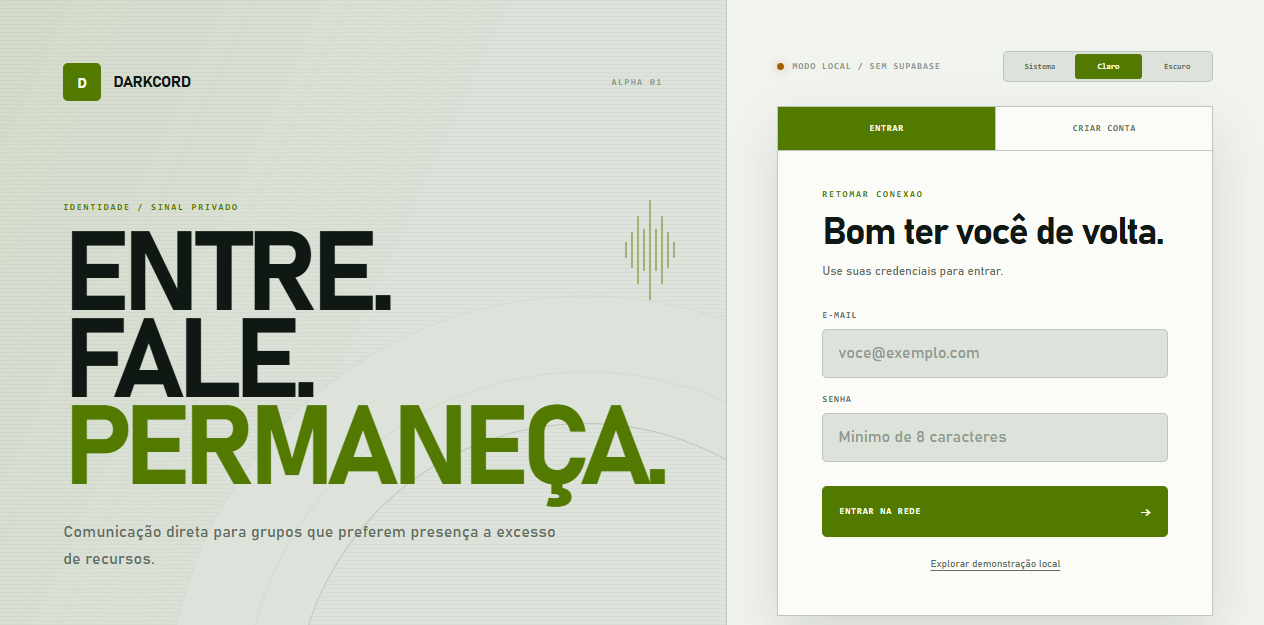
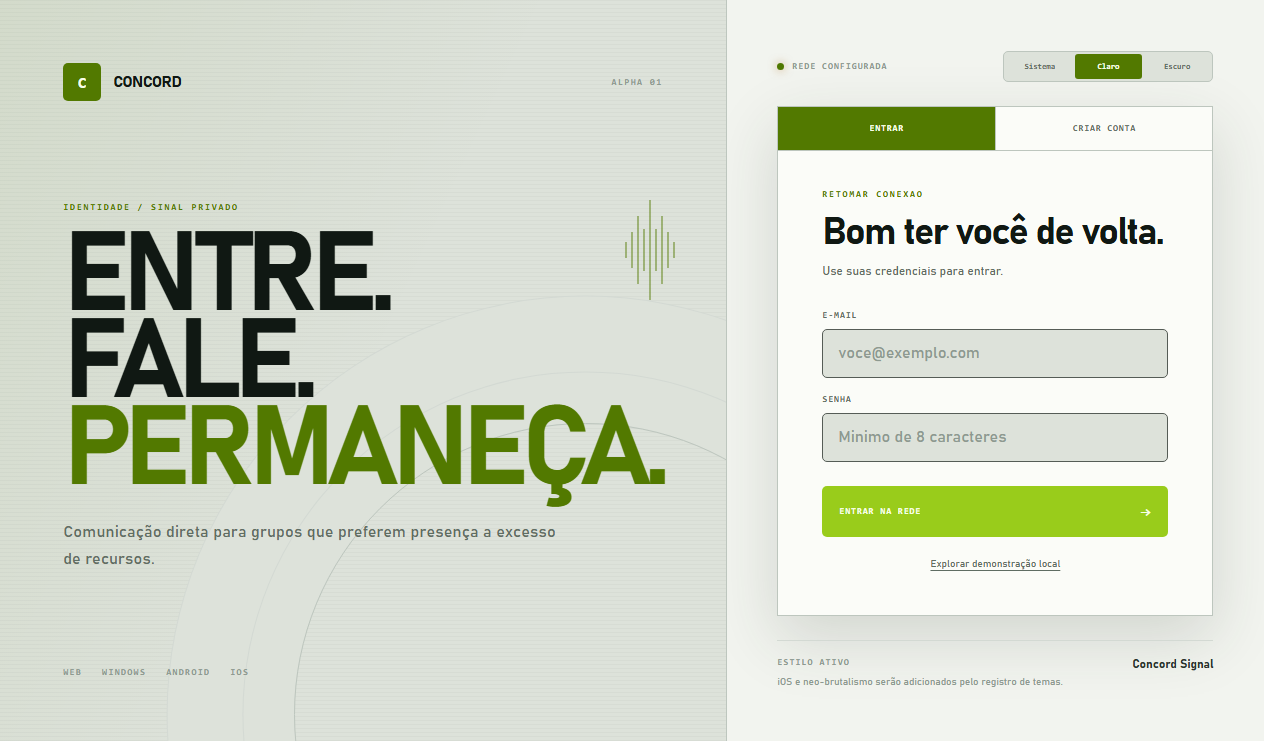
refactor: renomeia projeto para Concord

diff --git a/tests/e2e/identity-and-themes.spec.ts b/tests/e2e/identity-and-themes.spec.ts
@@ -5,6 +5,7 @@ test.describe('identidade e temas', () => {
     await page.emulateMedia({ colorScheme: 'light' })
     await page.goto('/')
 
+    await expect(page).toHaveTitle('Concord // Alpha 01')
     await expect(page.locator('html')).toHaveAttribute('data-color-mode', 'light')
     await expect(page.getByRole('button', { name: 'Sistema' })).toHaveAttribute('aria-pressed', 'true')
 
@@ -21,20 +22,18 @@ test.describe('identidade e temas', () => {
     await expect(page.locator('html')).toHaveAttribute('data-color-mode', 'light')
     await expect(page.getByRole('button', { name: 'Claro' })).toHaveAttribute('aria-pressed', 'true')
 
-    await expect.poll(() => page.evaluate(() => localStorage.getItem('darkcord.theme.v1')))
+    await expect.poll(() => page.evaluate(() => localStorage.getItem('concord.theme.v1')))
       .toContain('"colorMode":"light"')
   })
 
-  test('exibe o cadastro inicial e informa quando o Supabase não está configurado', async ({ page }) => {
+  test('exibe os campos do cadastro inicial', async ({ page }) => {
     await page.goto('/')
     await page.getByRole('tab', { name: 'Criar conta' }).click()
 
-    await page.getByLabel('Nickname').fill('Pedro')
-    await page.getByLabel('E-mail').fill('pedro@example.com')
-    await page.getByLabel('Senha').fill('SenhaTeste123')
-    await page.getByRole('button', { name: 'CRIAR IDENTIDADE' }).click()
-
-    await expect(page.getByRole('status')).toContainText('Supabase ainda nao configurado')
+    await expect(page.getByLabel('Nickname')).toBeVisible()
+    await expect(page.getByLabel('E-mail')).toBeVisible()
+    await expect(page.getByLabel('Senha')).toBeVisible()
+    await expect(page.getByRole('button', { name: 'CRIAR IDENTIDADE' })).toBeEnabled()
   })
 
   test('abre a demonstração e envia uma mensagem local', async ({ page }) => {

diff --git a/apps/web/src/features/workspace/ChannelPanel.tsx b/apps/web/src/features/workspace/ChannelPanel.tsx
@@ -1,4 +1,4 @@
-import type { ChannelSummary } from '@darkcord/contracts'
+import type { ChannelSummary } from '@concord/contracts'
 import { ThemeControls } from '../../components/theme/ThemeControls'
 
 type ChannelPanelProps = {
@@ -12,7 +12,7 @@ export function ChannelPanel({ activeChannel, channels, onChannelChange, onExit 
   return (
     <aside className="channel-panel">
       <header className="workspace-heading">
-        <div><span className="eyebrow">REDE PRIVADA</span><strong>Darkcord</strong></div>
+        <div><span className="eyebrow">REDE PRIVADA</span><strong>Concord</strong></div>
         <button type="button" aria-label="Sair da demonstracao" onClick={onExit}>×</button>
       </header>
 
@@ -39,7 +39,7 @@ export function ChannelPanel({ activeChannel, channels, onChannelChange, onExit 
         </div>
         <div className="voice-member muted">
           <span className="avatar avatar-amber">DC</span>
-          <div><strong>Darkcord Bot</strong><small>monitorando</small></div><i aria-label="Silenciado">×</i>
+          <div><strong>Concord Bot</strong><small>monitorando</small></div><i aria-label="Silenciado">×</i>
         </div>
       </section>
 

diff --git a/apps/web/index.html b/apps/web/index.html
@@ -4,11 +4,11 @@
     <meta charset="UTF-8" />
     <meta name="viewport" content="width=device-width, initial-scale=1.0" />
     <meta name="theme-color" content="#0a0c0b" />
-    <meta name="description" content="Darkcord: texto, voz e tela compartilhada sem peso desnecessario." />
-    <title>Darkcord // Alpha 01</title>
+    <meta name="description" content="Concord: texto, voz e tela compartilhada sem peso desnecessario." />
+    <title>Concord // Alpha 01</title>
     <script>
       (() => {
-        const key = 'darkcord.theme.v1'
+        const key = 'concord.theme.v1'
         let colorMode = 'system'
         try {
           const stored = JSON.parse(localStorage.getItem(key) || '{}')
@@ -17,7 +17,7 @@
         const resolved = colorMode === 'system'
           ? (matchMedia('(prefers-color-scheme: dark)').matches ? 'dark' : 'light')
           : colorMode
-        document.documentElement.dataset.styleTheme = 'darkcord'
+        document.documentElement.dataset.styleTheme = 'concord'
         document.documentElement.dataset.colorMode = resolved
         document.documentElement.style.colorScheme = resolved
       })()

diff --git a/apps/web/src/features/auth/AuthScreen.tsx b/apps/web/src/features/auth/AuthScreen.tsx
@@ -40,7 +40,7 @@ export function AuthScreen({ onExplore }: AuthScreenProps) {
   return (
     <main className="auth-shell">
       <section className="auth-story" aria-labelledby="auth-title">
-        <div className="auth-brand"><span>D</span><strong>DARKCORD</strong><small>ALPHA 01</small></div>
+        <div className="auth-brand"><span>C</span><strong>CONCORD</strong><small>ALPHA 01</small></div>
         <div className="auth-story-copy">
           <span className="eyebrow">IDENTIDADE / SINAL PRIVADO</span>
           <h1 id="auth-title">Entre.<br />Fale.<br /><em>Permaneça.</em></h1>
@@ -152,7 +152,7 @@ export function AuthScreen({ onExplore }: AuthScreenProps) {
 
           <footer className="auth-theme-note">
             <span>ESTILO ATIVO</span>
-            <strong>Darkcord Signal</strong>
+            <strong>Concord Signal</strong>
             <small>iOS e neo-brutalismo serão adicionados pelo registro de temas.</small>
           </footer>
         </div>

diff --git a/apps/web/src/theme/themes/concord.css b/apps/web/src/theme/themes/concord.css
@@ -1,4 +1,4 @@
-:root[data-style-theme='darkcord'][data-color-mode='dark'] {
+:root[data-style-theme='concord'][data-color-mode='dark'] {
   --color-canvas: #070908;
   --color-surface: #0d100f;
   --color-surface-raised: #121614;
@@ -21,7 +21,7 @@
   --texture-opacity: .018;
 }
 
-:root[data-style-theme='darkcord'][data-color-mode='light'] {
+:root[data-style-theme='concord'][data-color-mode='light'] {
   --color-canvas: #e8ebe5;
   --color-surface: #f2f4ef;
   --color-surface-raised: #fbfcf8;
@@ -44,7 +44,7 @@
   --texture-opacity: .032;
 }
 
-:root[data-style-theme='darkcord'] {
+:root[data-style-theme='concord'] {
   --font-body: Bahnschrift, 'Aptos Narrow', 'Trebuchet MS', sans-serif;
   --font-display: Bahnschrift, Impact, sans-serif;
   --font-mono: Consolas, 'Courier New', monospace;

diff --git a/apps/web/src/features/workspace/ServerRail.tsx b/apps/web/src/features/workspace/ServerRail.tsx
@@ -1,7 +1,7 @@
 export function ServerRail() {
   return (
     <nav className="server-rail" aria-label="Servidores">
-      <button className="server-mark active" type="button" aria-label="Darkcord"><span>D</span></button>
+      <button className="server-mark active" type="button" aria-label="Concord"><span>C</span></button>
       <div className="rail-line" />
       <button className="server-mark secondary" type="button" aria-label="Equipe zero">00</button>
       <button className="server-mark add" type="button" aria-label="Adicionar servidor">+</button>

diff --git a/apps/web/src/theme/theme-registry.ts b/apps/web/src/theme/theme-registry.ts
@@ -1,11 +1,11 @@
 import type { StyleThemeDefinition, StyleThemeId } from './theme-types'
 
-export const defaultStyleTheme: StyleThemeId = 'darkcord'
+export const defaultStyleTheme: StyleThemeId = 'concord'
 
 export const styleThemes: readonly StyleThemeDefinition[] = [
   {
-    id: 'darkcord',
-    label: 'Darkcord Signal',
+    id: 'concord',
+    label: 'Concord Signal',
     description: 'Central de radio industrial com sinal verde e ambar.',
     available: true,
   },

diff --git a/apps/web/src/features/workspace/workspace-data.ts b/apps/web/src/features/workspace/workspace-data.ts
@@ -1,4 +1,4 @@
-import type { ChannelSummary } from '@darkcord/contracts'
+import type { ChannelSummary } from '@concord/contracts'
 
 export type LocalMessage = {
   id: number
@@ -17,7 +17,7 @@ export const channels: ChannelSummary[] = [
 export const initialMessages: LocalMessage[] = [
   {
     id: 1,
-    author: 'Darkcord Relay',
+    author: 'Concord Relay',
     time: 'agora',
     body: 'Fundacao sincronizada. O primeiro sinal da rede esta no ar.',
     system: true,

diff --git a/apps/web/src/features/auth/AuthProvider.tsx b/apps/web/src/features/auth/AuthProvider.tsx
@@ -66,7 +66,7 @@ export function AuthProvider({ children }: PropsWithChildren) {
         options: { data: { nickname } },
       })
       if (error) return { ok: false, message: translateAuthError(error.message) }
-      return { ok: true, message: 'Conta criada. Bem-vindo ao Darkcord.' }
+      return { ok: true, message: 'Conta criada. Bem-vindo ao Concord.' }
     },
     signOut: async (): Promise<AuthResult> => {
       if (!supabase) return notConfigured

diff --git a/apps/web/src/theme/theme-types.ts b/apps/web/src/theme/theme-types.ts
@@ -2,7 +2,7 @@ export const colorModes = ['system', 'light', 'dark'] as const
 
 export type ColorMode = (typeof colorModes)[number]
 export type ResolvedColorMode = Exclude<ColorMode, 'system'>
-export type StyleThemeId = 'darkcord'
+export type StyleThemeId = 'concord'
 
 export type StyleThemeDefinition = {
   id: StyleThemeId

diff --git a/apps/web/src/theme/ThemeProvider.tsx b/apps/web/src/theme/ThemeProvider.tsx
@@ -5,7 +5,7 @@ import { defaultStyleTheme } from './theme-registry'
 import { colorModes } from './theme-types'
 import type { ColorMode, ResolvedColorMode, StyleThemeId } from './theme-types'
 
-const STORAGE_KEY = 'darkcord.theme.v1'
+const STORAGE_KEY = 'concord.theme.v1'
 
 type StoredTheme = {
   styleTheme: StyleThemeId

diff --git a/playwright.config.ts b/playwright.config.ts
@@ -18,7 +18,7 @@ export default defineConfig({
     },
   ],
   webServer: {
-    command: 'pnpm --filter @darkcord/web dev --host 127.0.0.1 --port 4173',
+    command: 'pnpm --filter @concord/web dev --host 127.0.0.1 --port 4173',
     url: 'http://127.0.0.1:4173',
     reuseExistingServer: !process.env.CI,
   },
